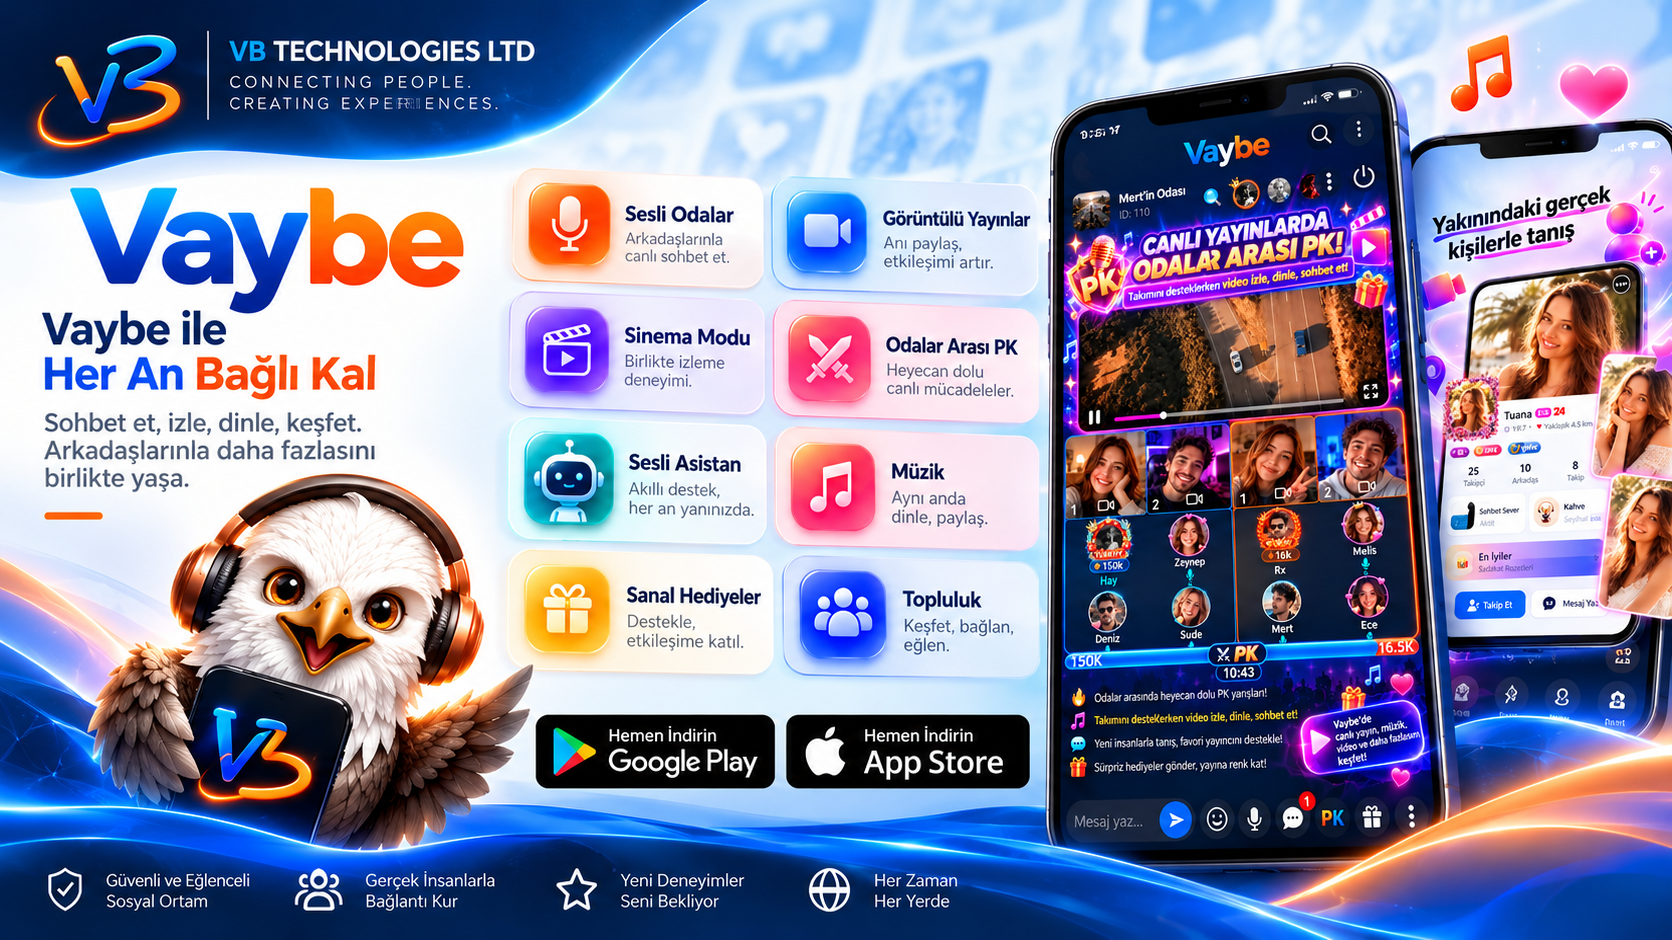
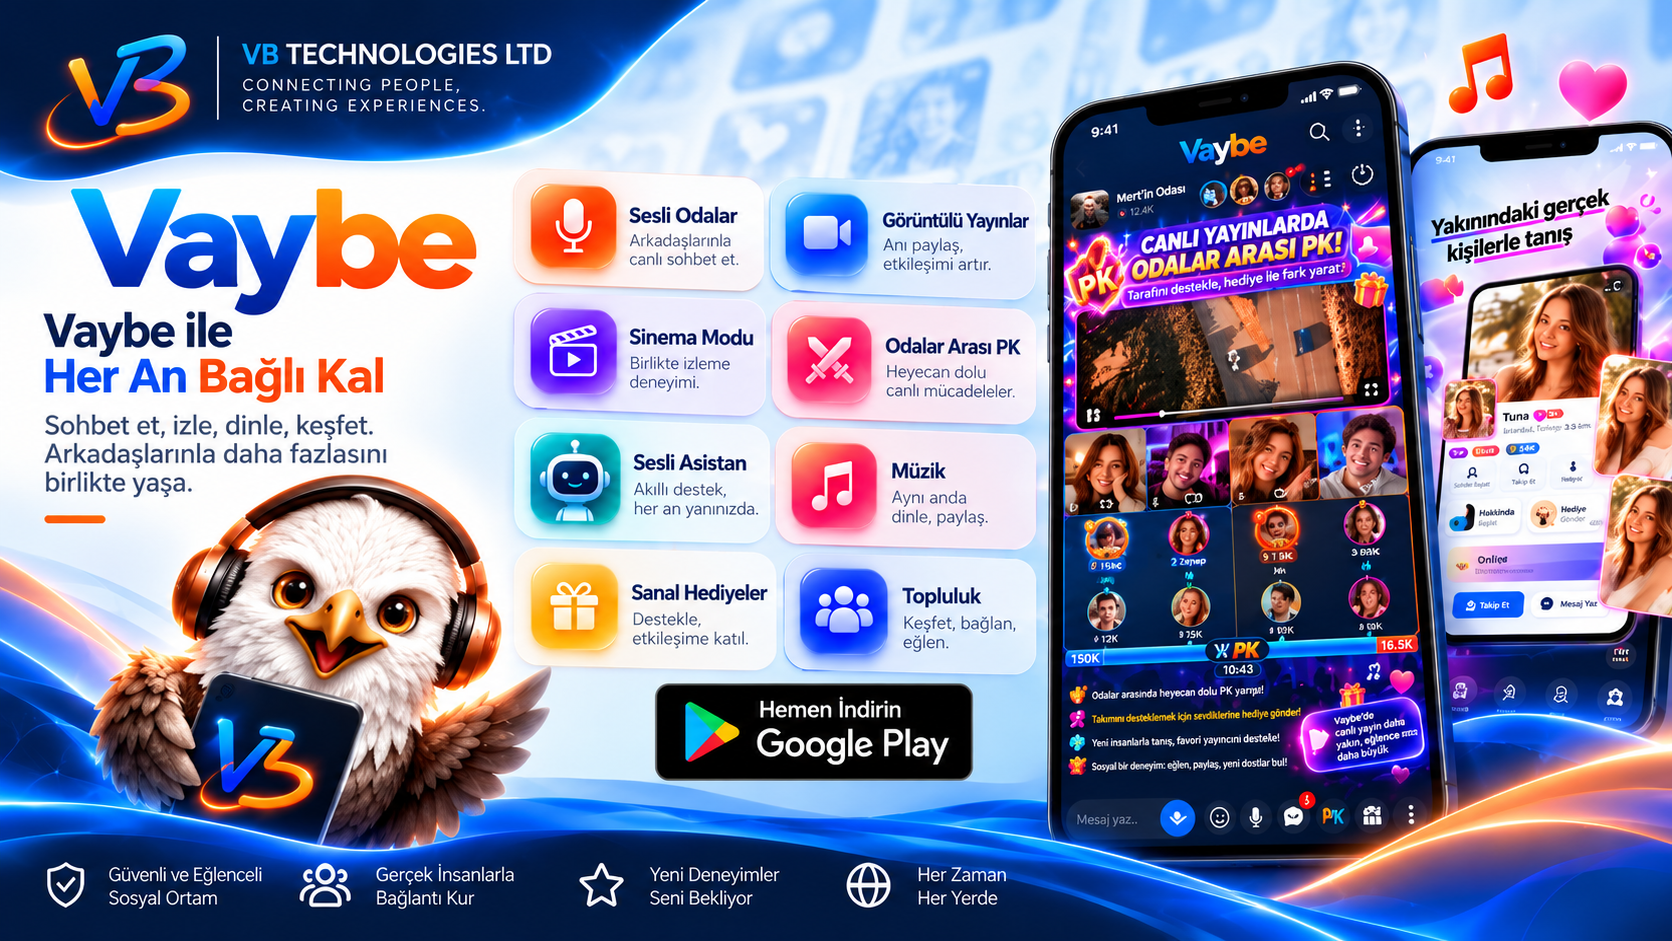
Add files via upload

diff --git a/index.html b/index.html
@@ -21,7 +21,7 @@
 /* Corporate navigation */
 .site-header{background:var(--navy);color:#fff;border-bottom:1px solid rgba(255,255,255,.14)}.header-inner{display:flex;align-items:center;justify-content:space-between;gap:20px;padding:16px 0}.brand{display:flex;align-items:center;gap:13px;text-decoration:none;min-width:0}.brand img{width:52px;height:52px;object-fit:cover;border-radius:13px;background:#0b2b56;border:1px solid rgba(255,255,255,.14)}.brand strong{display:block;font-size:16px;letter-spacing:.035em;line-height:1.2}.brand small{display:block;font-size:12px;color:#afc2dd;margin-top:4px;letter-spacing:.035em}.header-nav{display:flex;align-items:center;justify-content:flex-end;gap:11px 21px;flex-wrap:wrap}.header-nav a{text-decoration:none;font-size:13px;font-weight:650;color:#dfedfc}.header-nav a:hover{color:#89d2ff}.header-nav .nav-cta{background:#fff;color:#06346a;padding:10px 15px;border-radius:10px;font-weight:800}.header-nav .nav-cta:hover{color:#06346a;background:#dbeeff}
 /* App banner */
-.hero{background:radial-gradient(ellipse at 70% 0%,#163e6b 0%,#0d294d 32%,#071a33 80%);color:white;padding:38px 0 55px}.hero-topline{display:flex;align-items:center;gap:10px;color:#bdd8f2;letter-spacing:.15em;font-size:11px;font-weight:800;margin-bottom:19px}.hero-topline:before{content:"";display:block;width:27px;height:3px;background:var(--orange);border-radius:9px}.hero-art{overflow:hidden;position:relative;isolation:isolate;border-radius:19px;border:1px solid rgba(155,201,252,.35);background:#f7f9fd;box-shadow:0 25px 70px rgba(0,0,0,.27)}.hero-art img{display:block;width:100%;height:auto}.ios-preview-label{position:absolute;left:46.3%;top:74.6%;width:15.4%;height:8.5%;background:#050607;border-radius:11px;display:flex;align-items:center;justify-content:center;text-align:center;font-size:clamp(7px,1.22vw,16px);font-weight:800;letter-spacing:.01em;color:#fff;box-shadow:inset 0 0 0 1px rgba(255,255,255,.16);line-height:1.1;pointer-events:none}
+.hero{background:radial-gradient(ellipse at 70% 0%,#163e6b 0%,#0d294d 32%,#071a33 80%);color:white;padding:38px 0 55px}.hero-topline{display:flex;align-items:center;gap:10px;color:#bdd8f2;letter-spacing:.15em;font-size:11px;font-weight:800;margin-bottom:19px}.hero-topline:before{content:"";display:block;width:27px;height:3px;background:var(--orange);border-radius:9px}.hero-art{overflow:hidden;position:relative;isolation:isolate;border-radius:19px;border:1px solid rgba(155,201,252,.35);background:#f7f9fd;box-shadow:0 25px 70px rgba(0,0,0,.27)}.hero-art img{display:block;width:100%;height:auto}
 .hero-bottom{display:flex;align-items:center;justify-content:space-between;gap:30px;padding-top:34px}.hero-text{max-width:735px}.hero-text h1{font-size:clamp(30px,4.3vw,51px);line-height:1.12;letter-spacing:-.045em;margin:0 0 12px}.hero-text h1 em{font-style:normal;color:#70c9ff}.hero-text p{max-width:655px;color:#ccdbef;margin:0;font-size:16px}.hero-actions{display:flex;flex-direction:column;gap:11px;flex:none}.btn{display:inline-flex;gap:12px;align-items:center;justify-content:center;min-height:51px;padding:12px 24px;border-radius:11px;text-decoration:none;font-weight:800;font-size:14px;transition:transform .16s ease,background .16s ease}.btn:hover{transform:translateY(-2px)}.btn-play{background:linear-gradient(110deg,#168ff3,#0467c6);color:#fff;box-shadow:0 10px 25px rgba(0,96,199,.22)}.btn-secondary{color:#fff;border:1px solid rgba(191,220,247,.48);background:rgba(255,255,255,.04)}.btn-secondary:hover{background:rgba(255,255,255,.1)}.play-triangle{font-size:18px}.availability{margin-top:10px;color:#a9c2dc;font-size:12px;text-align:center}
 /* App capability section */
 .section{padding:68px 0}.section-eyebrow{font-size:12px;letter-spacing:.16em;text-transform:uppercase;font-weight:800;color:#0863b3;margin:0 0 7px}.section-title{font-size:clamp(26px,3.4vw,38px);letter-spacing:-.04em;line-height:1.2;margin:0 0 10px}.section-lead{color:#5f7189;max-width:820px;margin:0 0 29px}.feature-grid{display:grid;grid-template-columns:repeat(4,minmax(0,1fr));gap:14px}.feature{background:linear-gradient(175deg,#fff,#f5f9ff);border:1px solid var(--line);border-radius:17px;padding:23px 20px 21px;box-shadow:0 4px 15px rgba(20,61,105,.035)}.feature-icon{display:grid;place-items:center;height:44px;width:44px;background:#e8f4ff;border-radius:12px;color:#046bbf;font-size:23px;margin-bottom:16px}.feature:nth-child(4n+2) .feature-icon{background:#fff3e8}.feature:nth-child(4n+3) .feature-icon{background:#edf0ff}.feature:nth-child(4n+4) .feature-icon{background:#f1eefe}.feature h3{margin:0 0 7px;font-size:16px;line-height:1.35}.feature p{margin:0;color:#64768e;font-size:13px;line-height:1.65}
@@ -29,7 +29,7 @@
 .company-zone{background:#f4f7fb;border-top:1px solid #edf1f6;padding:66px 0 77px}.company-kicker{font-size:12px;font-weight:800;color:#075ca9;letter-spacing:.16em;margin:0 0 6px}.company-title{font-size:clamp(25px,3vw,36px);margin:0 0 25px;letter-spacing:-.03em}.info-stack{display:grid;grid-template-columns:1fr 1fr;gap:18px}.info-card{padding:32px 33px;background:#fff;border:1px solid #dfe7f1;border-radius:18px;box-shadow:0 12px 26px rgba(25,61,102,.035)}.info-card h2{font-size:21px;line-height:1.3;margin:0 0 17px}.info-card p{font-size:14px;line-height:1.9;margin:0 0 13px;color:#43556e}.info-card p:last-child{margin-bottom:0}.info-card strong{color:#172c49}.info-card a{color:#076ab8;overflow-wrap:anywhere}.info-card.full{grid-column:1/-1}.info-card .policy-links{border-top:1px solid var(--line);padding-top:14px;margin-top:18px}.info-card .policy-links a{text-decoration:underline;text-underline-offset:3px}.info-card p{overflow-wrap:anywhere}
 .closing{background:var(--navy);color:#fff;padding:46px 0}.closing-inner{display:flex;align-items:center;justify-content:space-between;gap:28px}.closing h2{margin:0 0 8px;font-size:28px;letter-spacing:-.03em}.closing p{margin:0;color:#bfd3e8;font-size:14px;max-width:650px}.closing .btn-play{flex:none}footer{background:#061529;color:#b3c4d9;padding:27px 0 32px;font-size:13px;border-top:1px solid rgba(255,255,255,.1)}.footer-inner{display:flex;align-items:center;justify-content:space-between;gap:12px;flex-wrap:wrap}footer a{color:#c5e5ff;text-decoration:none}footer a:hover{text-decoration:underline}
 @media(max-width:1020px){.header-inner,.hero-bottom,.closing-inner{flex-direction:column;align-items:flex-start}.header-nav{justify-content:flex-start}.hero-actions{flex-direction:row;flex-wrap:wrap}.availability{width:100%}.feature-grid{grid-template-columns:repeat(2,minmax(0,1fr))}}
-@media(max-width:650px){.wrap{width:calc(100% - 28px)}.header-inner{gap:14px}.brand img{width:42px;height:42px}.brand strong{font-size:13px}.brand small{font-size:10px}.header-nav{gap:8px 13px}.header-nav a{font-size:12px}.header-nav .nav-cta{padding:8px 11px}.hero{padding:19px 0 36px}.hero-topline{font-size:10px;margin-bottom:13px}.hero-art{border-radius:10px}.ios-preview-label{font-size:clamp(3px,1.15vw,8px);border-radius:4px}.hero-bottom{padding-top:24px;gap:22px}.hero-text h1{font-size:32px}.hero-text p{font-size:14px}.hero-actions{width:100%;flex-direction:column}.btn{width:100%}.availability{margin-top:1px}.section{padding:46px 0}.section-lead{font-size:14px}.feature-grid{gap:10px}.feature{padding:18px 14px}.feature-icon{height:38px;width:38px;font-size:20px;margin-bottom:12px}.feature h3{font-size:14px}.feature p{font-size:12px}.company-zone{padding:45px 0 53px}.info-stack{grid-template-columns:1fr;gap:13px}.info-card{padding:24px 20px;border-radius:13px}.info-card.full{grid-column:auto}.info-card h2{font-size:19px}.closing{padding:40px 0}.closing h2{font-size:24px}.footer-inner{align-items:flex-start;flex-direction:column}}
+@media(max-width:650px){.wrap{width:calc(100% - 28px)}.header-inner{gap:14px}.brand img{width:42px;height:42px}.brand strong{font-size:13px}.brand small{font-size:10px}.header-nav{gap:8px 13px}.header-nav a{font-size:12px}.header-nav .nav-cta{padding:8px 11px}.hero{padding:19px 0 36px}.hero-topline{font-size:10px;margin-bottom:13px}.hero-art{border-radius:10px}.hero-bottom{padding-top:24px;gap:22px}.hero-text h1{font-size:32px}.hero-text p{font-size:14px}.hero-actions{width:100%;flex-direction:column}.btn{width:100%}.availability{margin-top:1px}.section{padding:46px 0}.section-lead{font-size:14px}.feature-grid{gap:10px}.feature{padding:18px 14px}.feature-icon{height:38px;width:38px;font-size:20px;margin-bottom:12px}.feature h3{font-size:14px}.feature p{font-size:12px}.company-zone{padding:45px 0 53px}.info-stack{grid-template-columns:1fr;gap:13px}.info-card{padding:24px 20px;border-radius:13px}.info-card.full{grid-column:auto}.info-card h2{font-size:19px}.closing{padding:40px 0}.closing h2{font-size:24px}.footer-inner{align-items:flex-start;flex-direction:column}}
 @media(prefers-reduced-motion:reduce){html{scroll-behavior:auto}.btn{transition:none}}
 </style>
 </head>
@@ -56,8 +56,7 @@
     <div class="wrap">
       <div class="hero-topline">VB TECHNOLOGIES LTD · VAYBE</div>
       <div class="hero-art">
-        <img src="vaybe-hero.png" width="1672" height="940" fetchpriority="high" alt="Vaybe uygulamasını tanıtan görsel: sesli odalar, görüntülü yayınlar, birlikte video izleme, odalar arası PK, sanal hediyeler ve topluluklar">
-        <span class="ios-preview-label" aria-label="iOS uygulaması yakında">iOS · YAKINDA</span>
+        <img src="vaybe-hero.png" width="1672" height="941" fetchpriority="high" alt="Vaybe uygulamasını tanıtan görsel: sesli odalar, görüntülü yayınlar, birlikte video izleme, odalar arası PK, sanal hediyeler ve topluluklar">
       </div>
       <div class="hero-bottom">
         <div class="hero-text">
@@ -67,7 +66,7 @@
         <div class="hero-actions">
           <a class="btn btn-play" href="https://play.google.com/store/apps/details?id=com.vbizle" target="_blank" rel="noopener noreferrer"><span class="play-triangle" aria-hidden="true">▶</span> Google Play'den İndir</a>
           <a class="btn btn-secondary" href="#features">Vaybe'yi Keşfet</a>
-          <div class="availability">Android: Google Play'de · iOS: Yakında</div>
+          <div class="availability">Android: Google Play'de</div>
         </div>
       </div>
     </div>
